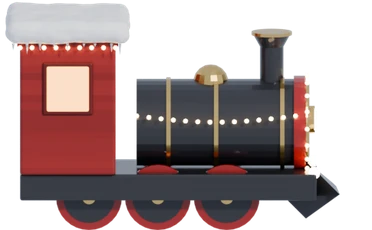
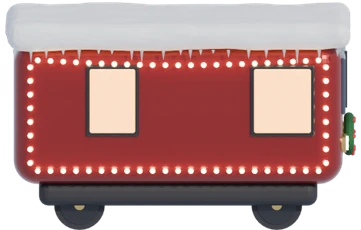
Kukushka: rounded modern metal cars, motor car front instead of steam loco

diff --git a/index.html b/index.html
@@ -1652,30 +1652,24 @@ let kukuMoving = false;
     const x1 = cx - len * 0.34, x2 = cx + len * 0.34, y1 = trackY(x1), y2 = trackY(x2);
     g.save(); const [sx, sy] = W2S(cx, (y1 + y2) / 2); g.translate(sx, sy - 2); g.rotate(Math.atan2(y2 - y1, x2 - x1)); draw(len); g.restore();
   }
-  // the festive Kukushka: Blender renders of the loco and a wagon, drawn along the track
+  // the festive Kukushka: Blender renders of the motor car and a wagon, drawn along the track
   const KU = 28;                                         // canvas units per metre of the 3D train
   function sprite(m, wm) { if (!ready(m)) return 0; const w = wm * KU, h = w * m.naturalHeight / m.naturalWidth; g.drawImage(m, -w / 2, -h + 3, w, h); return h; }
   function wagonAt(cx, logo) {
-    body(cx, 158, () => { const h = sprite(WAGON, 5.63); if (!h || !logo || !ready(logoImg)) return;
+    body(cx, 147, () => { const h = sprite(WAGON, 5.26); if (!h || !logo || !ready(logoImg)) return;
       const pw = h * 0.46, ph = h * 0.15, py = 3 - h * 0.3 - ph / 2;      // white name plate under the windows
       g.fillStyle = '#FFFFFF'; g.beginPath(); g.roundRect(-pw / 2, py, pw, ph, 3); g.fill();
       const lh = ph * 0.66, lw = lh * logoImg.naturalWidth / logoImg.naturalHeight; g.drawImage(logoImg, -lw / 2, py + (ph - lh) / 2, lw, lh); });
   }
   function locoAt(cx, t) {
-    body(cx, 190, () => { const w = 6.82 * KU, h = sprite(LOCO, 6.82); if (!h) return;
-      // the bottle rides in the cab window (window rect measured from the render)
-      const rx = -w / 2 + 0.1141 * w, ry = -h + 3 + 0.2895 * h, rw = 0.1173 * w, rh = 0.1961 * h;
-      if (ready(bottleImg)) { const bh = rh * 2.1, bw = bh * bottleImg.naturalWidth / bottleImg.naturalHeight, bob = Math.sin(t * 11) * Math.min(1, v / 250) * 0.6;
-        g.save(); g.beginPath(); g.roundRect(rx, ry, rw, rh, 2); g.clip();
-        g.drawImage(bottleImg, rx + rw / 2 - bw / 2, ry + 1 + bob, bw, bh);
-        const rf = g.createLinearGradient(rx, ry, rx + rw, ry + rh); rf.addColorStop(0, 'rgba(255,240,220,.3)'); rf.addColorStop(0.5, 'rgba(255,240,220,0)'); rf.addColorStop(1, 'rgba(255,240,220,.15)');
-        g.fillStyle = rf; g.fillRect(rx, ry, rw, rh); g.restore(); }
-      // steam from the chimney, trailing back as the train speeds up
-      const chx = -w / 2 + 0.7285 * w, chy = -h + 3 + 0.126 * h, sp = Math.min(1, v / 300), now = performance.now() / 1000;
-      for (let i = 0; i < 10; i++) { const u = (now * (0.35 + sp * 0.5) + i / 10) % 1, r = 5 + u * 20, a = 0.62 * Math.sin(Math.PI * Math.min(1, u * 1.4 + 0.08)) * (1 - u * 0.6);
-        const x = chx - u * (14 + sp * 70) + Math.sin(u * 6 + i) * 3, y = chy - 3 - u * (46 - sp * 18);
-        const sm = g.createRadialGradient(x, y, 0, x, y, r); sm.addColorStop(0, `rgba(250,251,253,${a})`); sm.addColorStop(0.6, `rgba(232,237,244,${a * 0.5})`); sm.addColorStop(1, 'rgba(232,237,244,0)');
-        g.fillStyle = sm; g.fillRect(x - r, y - r, r * 2, r * 2); } });
+    body(cx, 155, () => { const w = 5.54 * KU, h = sprite(LOCO, 5.54); if (!h || !ready(bottleImg)) return;
+      // the bottle rides in the driver's window (window rect measured from the render)
+      const rx = -w / 2 + 0.7098 * w, ry = -h + 3 + 0.3007 * h, rw = 0.1624 * w, rh = 0.278 * h;
+      const bh = rh * 1.6, bw = bh * bottleImg.naturalWidth / bottleImg.naturalHeight, bob = Math.sin(t * 11) * Math.min(1, v / 250) * 0.6;
+      g.save(); g.beginPath(); g.roundRect(rx, ry, rw, rh, 4); g.clip();
+      g.drawImage(bottleImg, rx + rw / 2 - bw / 2, ry + 2 + bob, bw, bh);
+      const rf = g.createLinearGradient(rx, ry, rx + rw, ry + rh); rf.addColorStop(0, 'rgba(255,240,220,.3)'); rf.addColorStop(0.5, 'rgba(255,240,220,0)'); rf.addColorStop(1, 'rgba(255,240,220,.15)');
+      g.fillStyle = rf; g.fillRect(rx, ry, rw, rh); g.restore(); });
   }
   const loadImgs = (n, f) => Array.from({ length: n }, (_, i) => { const m = new Image(); m.src = f(i); return m; });
   const HOUSES = loadImgs(3, i => `assets/house-${i}.webp`);
@@ -1756,7 +1750,7 @@ let kukuMoving = false;
     g.strokeStyle = '#C6D1DB'; g.lineWidth = 9; g.beginPath(); for (let sx = -10; sx <= VW + 10; sx += 6) { const wx = camX + sx; sx === -10 ? g.moveTo(sx, trackY(wx) + 4 - camY) : g.lineTo(sx, trackY(wx) + 4 - camY); } g.stroke();
     g.fillStyle = '#7B6A5C'; for (let wx = Math.floor(camX / 15) * 15; wx < camX + VW + 15; wx += 15) { const [a, b] = W2S(wx, trackY(wx)); g.fillRect(a - 4, b - 1, 8, 4); }
     g.strokeStyle = '#475866'; g.lineWidth = 2.4; g.beginPath(); for (let sx = -10; sx <= VW + 10; sx += 5) { const wx = camX + sx; sx === -10 ? g.moveTo(sx, trackY(wx) - 2 - camY) : g.lineTo(sx, trackY(wx) - 2 - camY); } g.stroke();
-    wagonAt(train - 410); wagonAt(train - 248, true); wagonAt(train - 86); locoAt(train + 90, t);
+    wagonAt(train - 263); wagonAt(train - 108, true); locoAt(train + 50, t);
     if (bubble > 0) { const [a, b] = W2S(train + 110, trackY(train + 110) - 120), al = Math.min(1, bubble * 2), lift = (1.8 - bubble) * 6;
       g.globalAlpha = al; g.fillStyle = '#FFFFFF'; g.beginPath(); g.roundRect(a - 38, b - 18 - lift, 76, 30, [12, 12, 12, 4]); g.fill();
       g.fillStyle = '#0A2348'; g.font = '900 13px "Noto Sans Georgian", sans-serif'; g.textAlign = 'center'; g.textBaseline = 'middle'; g.fillText(mt(T('კუ-კუ!', 'Ku-ku!')), a, b - 3 - lift); g.globalAlpha = 1; }
